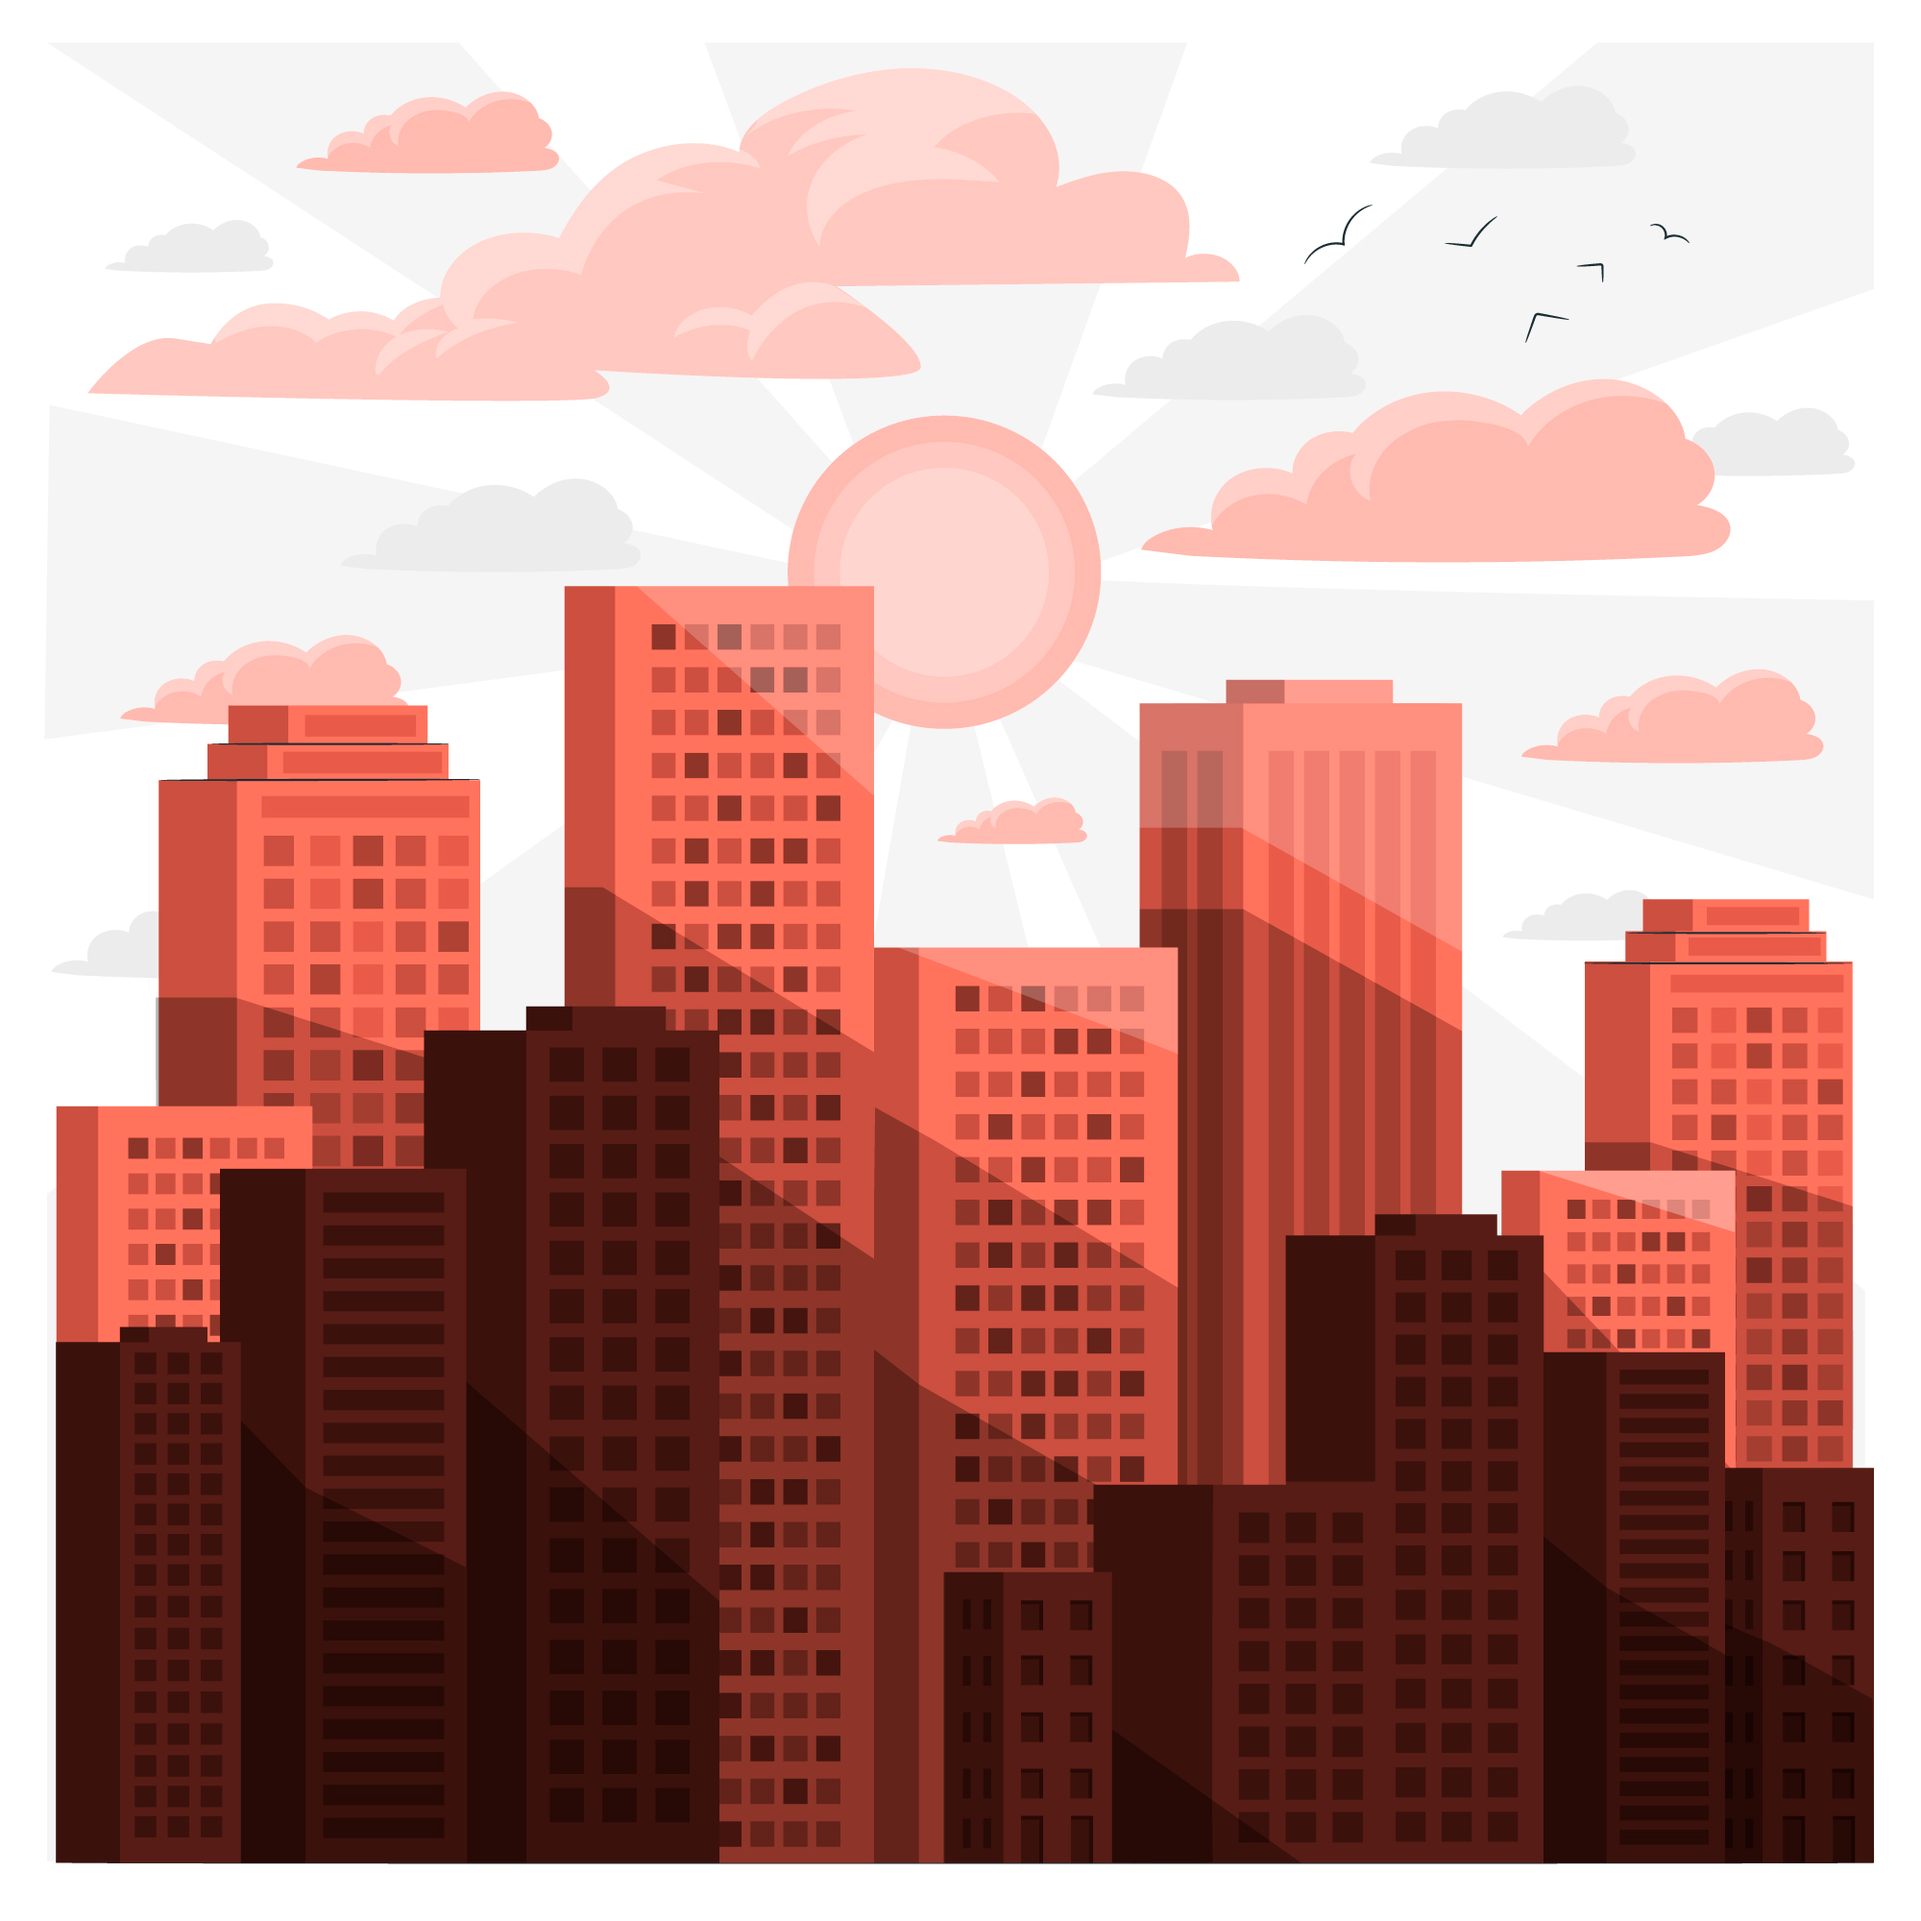
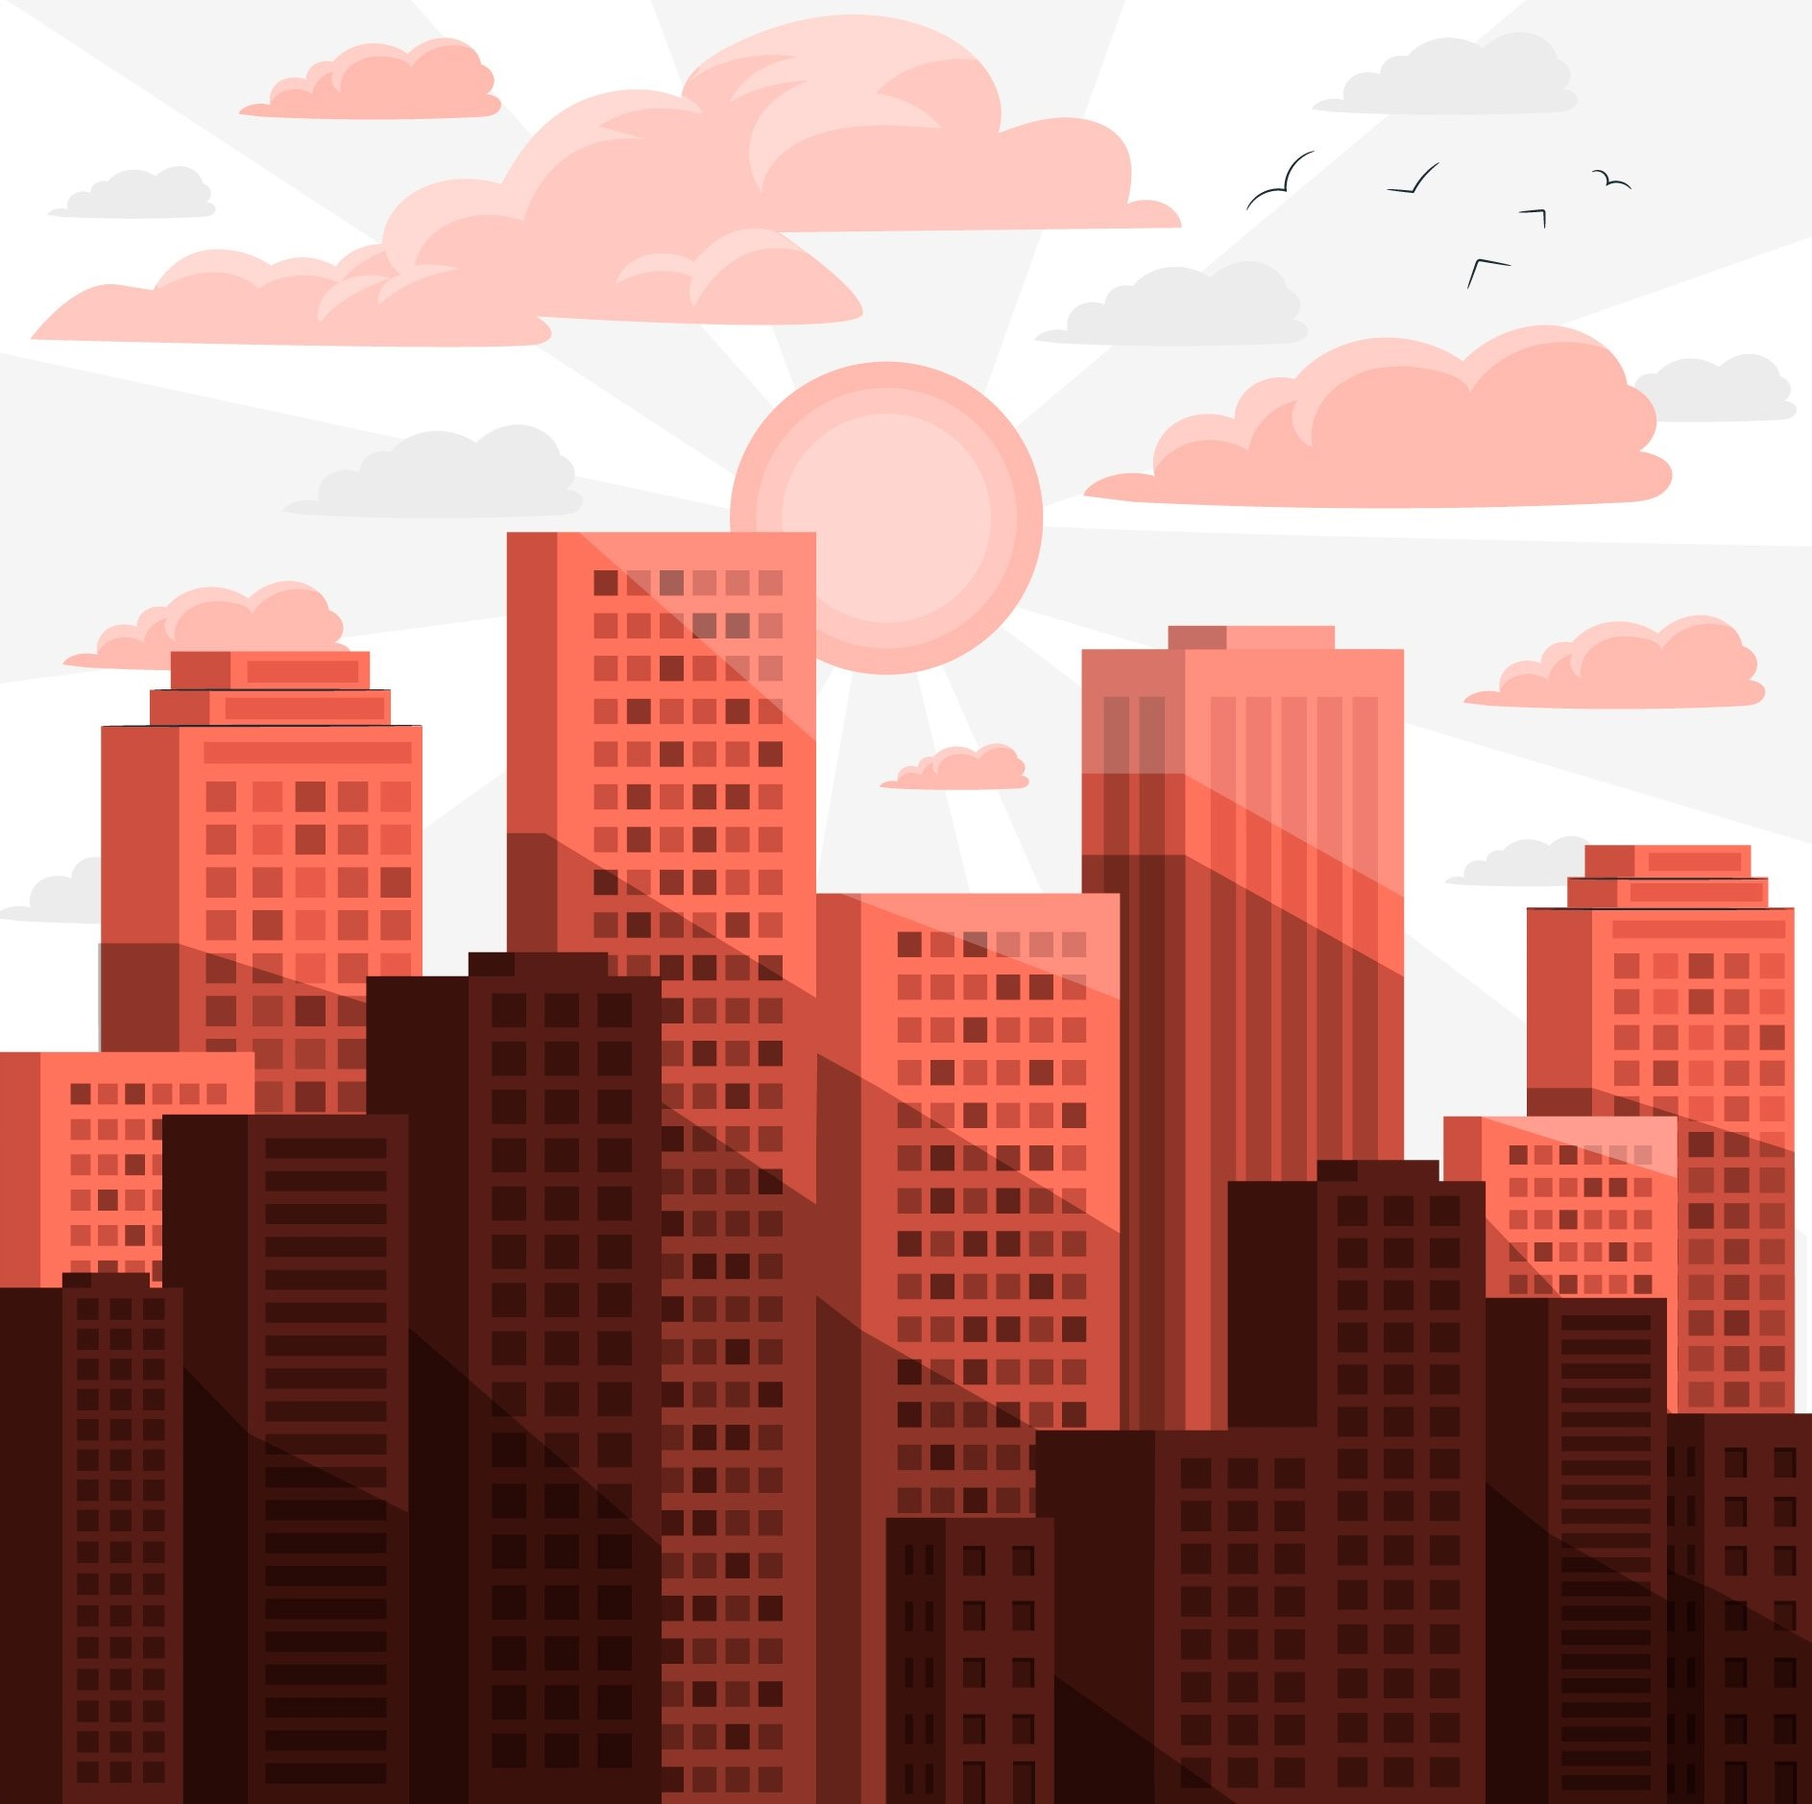
style: Ajuste feito no background da tela de registro Foi realizado um ajuste no background, adicionando uma imagem de fundo. Também removi as bordas brancas de imagem de fundo, fazendo um edit

diff --git a/src/app/components/FormRegister/index.tsx b/src/app/components/FormRegister/index.tsx
@@ -35,7 +35,7 @@ export const FormRegister = () => {
             </div>
           )}
       
-          <div className="w-full max-w-4xl max-sm:max-w-lg mx-auto p-6 mt-6 md:mt-0 md:p-0">
+          {/* <div className="w-full max-w-4xl max-sm:max-w-lg mx-auto p-6 mt-6 md:mt-0 md:p-0">
             <div className="text-center mb-12 sm:mb-16">
               <a href="javascript:void(0)">
                 <img src="/assets/img/logo.png" alt="logo" className="w-44 inline-block" />
@@ -98,6 +98,72 @@ export const FormRegister = () => {
                 )}
               </div>
             </form>
+          </div> */}
+          <div className="w-full max-w-4xl max-sm:max-w-lg mx-auto p-6 mt-6 md:mt-0 md:p-0">
+            <div className="bg-white rounded-3xl shadow-lg p-9">
+              <div className="text-center mb-12 sm:mb-16">
+                <a href="javascript:void(0)">
+                  <img src="/assets/img/logo.png" alt="logo" className="w-44 inline-block" />
+                </a>
+                <h4 className="text-slate-600 text-h4 mt-6">Iniciar Novo Cadastro</h4>
+              </div>
+
+              <div className="flex justify-center gap-8 mb-8">
+                {steps.map(({ id, title }) => (
+                  <StepIndicator key={id} step={id} currentStep={step} title={title} />
+                ))}
+              </div>
+
+              <form onSubmit={handleSubmit}>
+                {step === 1 && <StepOne formData={formData} handleChange={handleChange} />}
+                {step === 2 && (
+                  <StepTwo
+                    formData={formData}
+                    handleChange={handleChange}
+                    departaments={departaments}
+                    profile={profile}
+                    typeconnection={typeconnection}
+                  />
+                )}
+                {step === 3 && (
+                  <StepThree
+                    formData={formData}
+                    handleChange={handleChange}
+                    roleUser={roleUser}
+                    optionsLocation={location}
+                  />
+                )}
+
+                <div className="mt-12 flex justify-between">
+                  {step > 1 && (
+                    <button
+                      type="button"
+                      onClick={handlePrevStep}
+                      className="px-4 py-2 bg-gray-300 text-gray-800 rounded hover:bg-gray-400 transition"
+                    >
+                      Voltar
+                    </button>
+                  )}
+
+                  {step < 3 ? (
+                    <button
+                      type="button"
+                      onClick={handleNextStep}
+                      className="px-4 py-2 bg-primary text-white rounded hover:bg-red-600 transition"
+                    >
+                      Próximo
+                    </button>
+                  ) : (
+                    <button
+                      type="submit"
+                      className="px-4 py-2 bg-green-600 text-white rounded hover:bg-green-700 transition flex items-center justify-center min-w-[120px]"
+                    >
+                      Cadastrar
+                    </button>
+                  )}
+                </div>
+              </form>
+            </div>
           </div>
         </>
       );      

diff --git a/src/app/register/page.tsx b/src/app/register/page.tsx
@@ -1,8 +1,10 @@
 import { FormRegister } from "../components/FormRegister";
+// import backgroundImage from "/assets/img/10101411.jpg";
+
 
 const Register = () => {
     return (
-        <div className="flex flex-col items-center justify-center min-h-screen">
+        <div className="flex flex-col items-center justify-center min-h-screen" style={{ backgroundImage: "url('/assets/img/10101411.jpg')" }}>
             <FormRegister />
         </div>
     );
